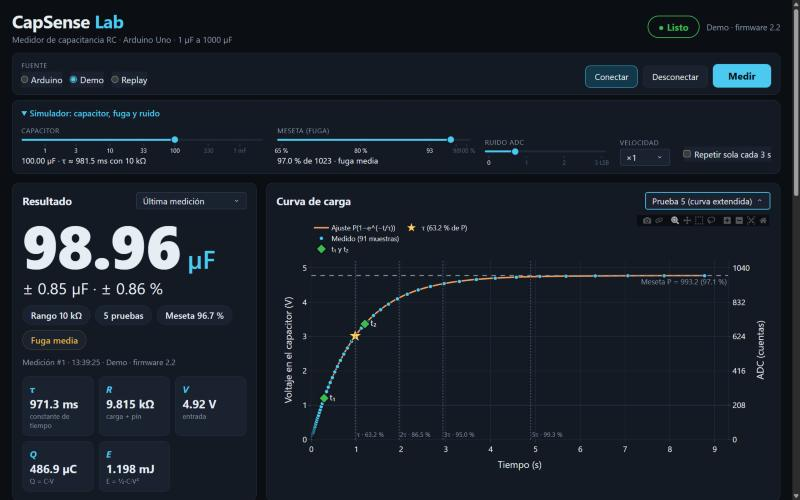
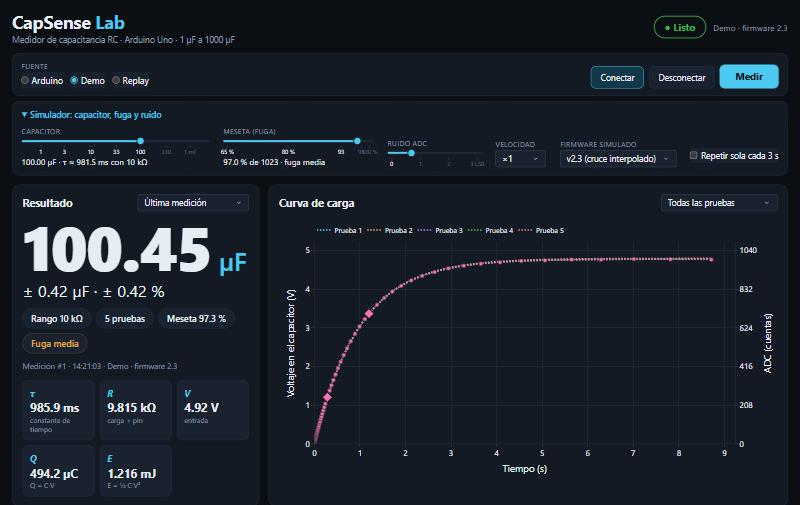
Documenta la v2.3 y publica la versión 0.2.0
Tabla de exactitud v2.2 contra v2.3, explicación de por qué fallaba la
v2.2 y qué cambia, protocolo con t1/t2 decimales, README y CHANGELOG.

diff --git a/docs/calculos.md b/docs/calculos.md
@@ -81,22 +81,28 @@ La pantalla del LCD y el dashboard clasifican la meseta promedio:
 
 **Ojo con el modelo:** una fuga real (una resistencia R_f en paralelo con C) también acorta la constante de tiempo: τ = C·(R‖R_f), con P = 1023·R_f/(R+R_f). El firmware calcula C = τ/R, así que con fuga subestima C en el factor P/1023 (≈ 3 % si la meseta es 97 %). Ajustar P sí evita el error mucho mayor del método simple del 63 %, pero no corrige este factor. El simulador usa el mismo modelo que el firmware (τ = R·C y P < 1023).
 
-## 9. Límites de exactitud del firmware (medidos con el simulador)
+## 9. Exactitud del firmware (medida con el simulador)
 
-El simulador reproduce el bucle real del Uno: `micros()` con resolución de 4 µs, `analogRead()` de ~112 µs (la muestra se toma ~12 µs después de empezar), ruido gaussiano del ADC y truncamiento. Peor error en 3 repeticiones:
+El simulador reproduce el bucle real del Uno: `micros()` con resolución de 4 µs, `analogRead()` de ~112 µs (la muestra se toma ~12 µs después de empezar), ruido gaussiano del ADC y truncamiento. Peor error de la medición completa (autorango, 2 a 5 pruebas, promedio) en 3 repeticiones:
 
-| C | meseta 100 %, ruido 0.3 | meseta 100 %, ruido 0.7 | meseta 96 %, ruido 0.7 |
-|---|---|---|---|
-| 1 µF (1 MΩ) | −0.2 % | −0.7 % | −0.4 % |
-| 1.5 µF | +0.8 % | +0.9 % | **+5.0 %** |
-| 2.2 µF | +0.4 % | −0.2 % | **+2.1 %** |
-| 4.7 µF | +0.2 % | −0.5 % | +1.6 % |
-| 10–100 µF | < 0.4 % | < 0.9 % | < 0.8 % |
-| 220–1000 µF | < 0.7 % | **−1.6 %** | −1.3 % |
+| C | v2.2 · sin fuga, ruido 0.3 | v2.2 · sin fuga, ruido 0.7 | v2.2 · meseta 96 %, ruido 0.7 | **v2.3** · sin fuga, ruido 0.3 | **v2.3** · sin fuga, ruido 0.7 | **v2.3** · meseta 96 %, ruido 0.7 |
+|---|---|---|---|---|---|---|
+| 1 µF (1 MΩ) | −0.20 % | −0.70 % | −0.40 % | 0.00 % | −0.10 % | +0.80 % |
+| 1.5 µF | +0.80 % | +0.87 % | **+5.00 %** | +0.07 % | +0.07 % | +0.80 % |
+| 2.2 µF | +0.36 % | −0.18 % | **+2.05 %** | +0.05 % | −0.14 % | +0.50 % |
+| 4.7 µF | +0.23 % | −0.49 % | +1.62 % | +0.02 % | +0.04 % | +0.40 % |
+| 10–100 µF | < 0.4 % | < 0.9 % | < 0.8 % | < 0.1 % | < 0.1 % | < 0.7 % |
+| 220–1000 µF | < 0.7 % | **−1.59 %** | −1.30 % | < 0.1 % | < 0.3 % | < 0.6 % |
 
-Dos efectos:
+### Por qué fallaba la v2.2 (y la v2.1, que mide igual)
 
-1. **Capacitores chicos en 10 kΩ con fuga (1 a 5 µF).** t1 dura pocos ms, y detectar el cruce se atrasa hasta una vuelta del bucle (~116 µs). Eso cambia la razón t2/t1 y, cuando hay fuga, el ajuste de P amplifica el error. Interpolar el instante del cruce entre la lectura anterior y la actual lo baja a menos de 0.7 % (probado en el simulador).
-2. **Capacitores grandes con ruido (≥ 220 µF).** La curva sube tan lento que el ruido del ADC cruza los umbrales un poco antes. Promediar varias lecturas cerca de los umbrales lo reduciría.
+1. **Capacitores chicos en 10 kΩ con fuga (1 a 5 µF).** t1 dura pocos ms y el firmware anota el tiempo de la *primera lectura* que pasa el umbral: el cruce real ocurrió hasta una vuelta antes (~116 µs). Eso cambia la razón t2/t1 y, con fuga, el ajuste de P amplifica el error.
+2. **Capacitores grandes con ruido (≥ 220 µF).** La curva sube tan lento que pasa miles de lecturas cerca de 250 y de 700; basta una lectura con ruido hacia arriba para "cruzar" antes de tiempo.
 
-Ninguna de estas mejoras está en la v2.2, que mide exactamente igual que la v2.1. Quedan como propuesta para una v2.3. En la práctica, la tolerancia de un electrolítico típico es ±20 %, así que estos errores no cambian ninguna conclusión de la exposición.
+### Qué cambia la v2.3
+
+- Los cruces se detectan sobre la **media móvil de las últimas 8 lecturas**, con su tiempo medio. El ruido baja a la mitad y deja de adelantar el cruce. Por vuelta solo se suman y restan enteros (~5 µs); la comparación `suma ≥ N·cantidad` evita dividir.
+- El instante se **interpola** entre el punto medio de la vuelta anterior y el de la actual, y se le suman 8 µs: el ADC muestrea ~12 µs después de leer `micros()` y la carga empieza ~4 µs después de `t0`. La cuenta en `float` se hace solo una vez por cruce.
+- Lo que queda con fuga (+0.3 a +0.8 %) viene de promediar una curva que se dobla: la media queda un poco por debajo de la curva y el cruce sale un poco tarde.
+
+La tolerancia de un electrolítico típico es ±20 %, así que la diferencia no cambia ninguna conclusión de la exposición. Pero con la v2.3 el valor medido ya refleja el capacitor y no el método.

diff --git a/README.md b/README.md
@@ -4,7 +4,7 @@ Medidor de capacitancia RC (1 µF a 1000 µF) con Arduino Uno, y un dashboard en
 
 Proyecto de Samuel y Joel (Ingeniería de Sistemas, Universidad del Norte) para la GeoExpo de Física.
 
-![Dashboard en modo demo: resultado de 98.96 µF y curva de carga con t1, t2, τ y la meseta](docs/img/dashboard.jpg)
+![Dashboard en modo demo: resultado de 100.45 µF y curva de carga con t1, t2, τ y la meseta](docs/img/dashboard.jpg)
 
 ## Qué muestra
 
@@ -49,7 +49,8 @@ Todo eso también se elige desde la barra superior del dashboard. Opciones: `pyt
 
 ### En el Arduino
 
-- **Firmware v2.2** ([firmware/capsense_lab_v2_2](firmware/capsense_lab_v2_2/capsense_lab_v2_2.ino)): manda la curva real, t₁ y t₂, y acepta el botón **Medir** del dashboard (envía `M` por serie). 115200 baud.
+- **Firmware v2.3** ([firmware/capsense_lab_v2_3](firmware/capsense_lab_v2_3/capsense_lab_v2_3.ino)), recomendado: igual que la v2.2, pero detecta t₁ y t₂ con una media móvil y los interpola. En el simulador baja el peor error de ~5 % a menos de 1 %.
+- **Firmware v2.2** ([firmware/capsense_lab_v2_2](firmware/capsense_lab_v2_2/capsense_lab_v2_2.ino)): manda la curva real, t₁ y t₂, y acepta el botón **Medir** del dashboard (envía `M` por serie). 115200 baud. Mide igual que la v2.1.
 - **Firmware v2.1**: también funciona (9600 baud). Se mide con el botón START; el dashboard reconstruye t₁ y t₂ desde τ y P y dibuja la curva ajustada.
 
 Las constantes del montaje (V de entrada, resistencias, R del pin) están en [config/capsense.toml](config/capsense.toml) y deben coincidir con las del firmware. Si no coinciden, el dashboard muestra un aviso.
@@ -62,7 +63,7 @@ src/capsense/
 ├── io/          parser del protocolo y fuentes: serial, simulador, replay
 ├── services/    sesión (estado, hilo seguro) y logs/exportación
 └── ui/          Dash: layout, callbacks, gráficas, fórmulas, estilo
-firmware/        capsense_lab_v2_1 y capsense_lab_v2_2
+firmware/        capsense_lab_v2_1, v2_2 y v2_3
 tests/           unit/, integration/, fixtures/
 docs/            arquitectura, protocolo serie, cálculos
 scripts/         grabar un log del Arduino, regenerar fixtures
@@ -95,4 +96,4 @@ ruff check src tests
 
 ## Exactitud
 
-El firmware tiene límites conocidos (latencia de `analogRead` con capacitores de 1 a 5 µF con fuga y ruido del ADC con capacitores grandes). Están medidos con el simulador en [docs/calculos.md](docs/calculos.md#9-límites-de-exactitud-del-firmware-medidos-con-el-simulador).
+Con el simulador, la v2.1/v2.2 llega a +5 % con capacitores de 1 a 5 µF con fuga y a −1.6 % con capacitores grandes y ruido. La v2.3 deja todo el rango bajo 1 %. El panel demo permite elegir qué firmware simular para comparar. Tabla completa en [docs/calculos.md](docs/calculos.md#9-exactitud-del-firmware-medida-con-el-simulador).

diff --git a/CHANGELOG.md b/CHANGELOG.md
@@ -2,6 +2,17 @@
 
 Formato basado en [Keep a Changelog](https://keepachangelog.com/es-ES/1.1.0/).
 
+## [0.2.0] - 2026-10-29
+
+### Firmware v2.3
+- t1 y t2 se detectan sobre la media móvil de las últimas 8 lecturas y se interpolan entre vueltas del bucle, con corrección del retardo de muestreo del ADC.
+- En el simulador, el peor error pasa de +5.0 % (1.5 µF con fuga) y −1.6 % (1000 µF con ruido) a menos de 1 % en todo el rango.
+- `#PRUEBA` envía t1 y t2 con un decimal. Compila para el Uno con 16 528 bytes de flash (51 %) y 1252 bytes de RAM global (61 %).
+
+### Dashboard
+- El simulador imita la v2.3 (por defecto) o la v2.2; se elige en el panel demo o con `[demo] firmware` en `config/capsense.toml`.
+- Barrido de tests para las dos versiones.
+
 ## [0.1.0] - 2026-10-29
 
 ### Dashboard
@@ -21,4 +32,4 @@ Formato basado en [Keep a Changelog](https://keepachangelog.com/es-ES/1.1.0/).
 - La medición, el LCD, los LEDs, los botones y el autorango son los de la v2.1.
 
 ### Conocido
-- Error de hasta ~5 % con capacitores de 1 a 5 µF con fuga, y de ~1.5 % con capacitores grandes y ruido. Ver `docs/calculos.md`.
+- Error de hasta ~5 % con capacitores de 1 a 5 µF con fuga, y de ~1.5 % con capacitores grandes y ruido (corregido en el firmware v2.3). Ver `docs/calculos.md`.

diff --git a/docs/protocolo_serial.md b/docs/protocolo_serial.md
@@ -1,12 +1,14 @@
 # Protocolo serie Arduino → PC
 
-## Firmware v2.2 (115200 baud)
+## Firmware v2.2 y v2.3 (115200 baud)
+
+Las dos usan el mismo protocolo. Única diferencia: en la v2.3, `t1_us` y `t2_us` de `#PRUEBA` llevan un decimal (son interpolados, ver [calculos.md](calculos.md#9-exactitud-del-firmware-medida-con-el-simulador)); en la v2.2 son enteros.
 
 Cada línea de máquina empieza con `#`, un tipo y campos separados por coma. El firmware **también** imprime el texto legible de la v2.1 para el Monitor Serie. El dashboard ignora ese texto cuando ya vio líneas `#`.
 
 | Línea | Campos | Cuándo |
 |---|---|---|
-| `#VERSION,2.2` | versión | al arrancar y con el comando `V` |
+| `#VERSION,2.3` | versión | al arrancar y con el comando `V` |
 | `#CONFIG,V,R10k,R1M,R_pin,K,N1,N2` | calibración del firmware | igual que `#VERSION` |
 | `#LISTO` | | listo para medir (también después de un error) |
 | `#INICIO,n_max` | pruebas máximas (5) | al empezar una medición |
